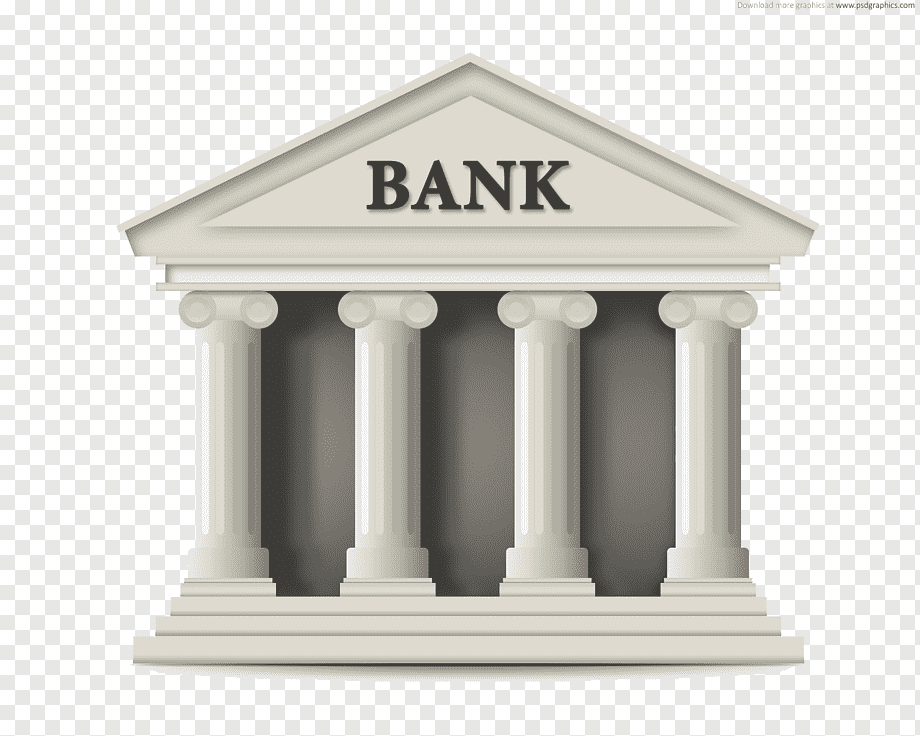
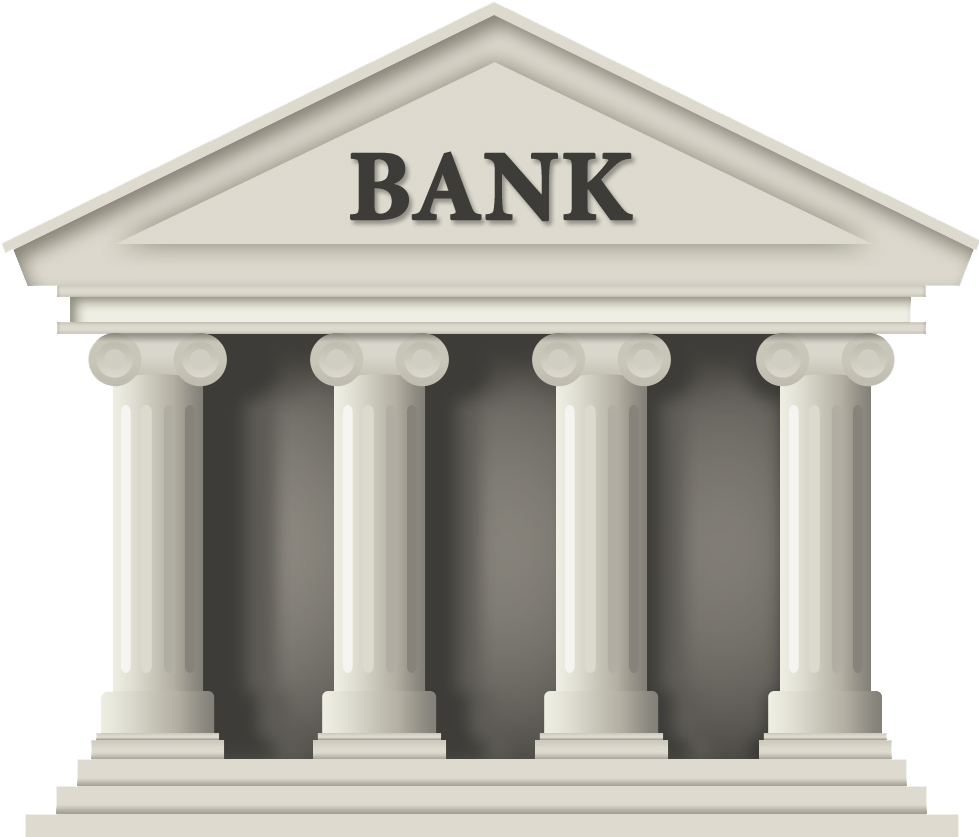
Переделал интерфейс

diff --git a/styles/menu.css b/styles/menu.css
@@ -32,49 +32,44 @@
 	text-decoration: none;
 }
 .nav-scroller__item:hover:not(.active) {
-	color: #ffe263;
+	color: #28e637;
 }  
 .nav-scroller__item.active {
-	border-bottom: 2px solid #ffe263;
+	border-bottom: 2px solid #28e637;
 }
 
 
 .upgrade-menu {
 	max-height: 94%;
-	height: auto;
 	padding-left: 10px;
 	padding-right: 10px;
 	overflow-y: scroll;
-	background-color: #2b2b2b;
-	border-radius: 20px;
 }
-/*.upgrade-menu::after {
-	content: '';
-	width: 100%;
-	height: 100%;
-	position: absolute;
-	top: 0; left: 0;
-	border-radius: 20px;
-	pointer-events: none;
-	background: linear-gradient(to bottom, transparent 85%,  rgba(0,0,0,0.9) 100%);
-}*/
 .upgrade-menu::-webkit-scrollbar {
 	width: 0;
 }
 .upgrade {
+	width: inherit;
+	margin-bottom: 10px;
 	line-height: 0.5em;
+	border-radius: 20px;
+	background-color: #2b2b2b;
 }
-.upgrade:not(:last-child) {
-	border-bottom: 3px solid rgba(0, 0, 0, 0.233);
-}
-#name {
+.upgrade-name {
+	height: 15px;
+	padding-top: 15px;
 	font-size: 22px;
+	font-weight: 500;
 }
-#amount {
+.upgrade-amount {
+	height: 20px;
+	padding-top: 20px;
 	font-size: 14px;
+	font-weight: 100;
 }
-.purchase {
+.upgrade-purchase-buttons {
 	width: auto;
-	/*float: right;*/
+	padding-bottom: 10px;
+	float: right;
 }
 

diff --git a/index.html b/index.html
@@ -15,7 +15,7 @@
 			<div class="click-area">
 				<h1 id="balance"></h1>
 				<div> 
-					<img src="images/bank-transparent.png">
+					<img id="bank-image-transparent" src="images/bank-transparent.png">
 				</div>
 			</div>
 			<div class="menu">
@@ -29,13 +29,24 @@
 				</div>
 				<div class="upgrade-menu">
 					<div class="upgrade">
-						<div> 
-							<span id="name">Улучшение 1</span>
+						<div class="upgrade-name"> 
+							<span>Улучшение 1</span>
 						</div>
-						<div>
-							<span id="amount">У вас есть:</span>
+						<div class="upgrade-amount">
+							<span>У вас есть:</span>
 						</div>
-						<div class="purchase">
+						<div class="upgrade-purchase-buttons">
+							<button>Купить 1</button>
+						</div>
+					</div>
+					<div class="upgrade">
+						<div class="upgrade-name"> 
+							<span>Улучшение 1</span>
+						</div>
+						<div class="upgrade-amount">
+							<span>У вас есть:</span>
+						</div>
+						<div class="upgrade-purchase-buttons">
 							<button>Купить 1</button>
 						</div>
 					</div>

diff --git a/styles/click-area.css b/styles/click-area.css
@@ -1,4 +1,5 @@
 .click-area {
+    color: #28e637;
     height: 95vh;
     width: 60vw;
     margin-top: 10px;
@@ -6,4 +7,9 @@
     text-align: center;
     display: block;
     user-select: none;
+}
+#bank-image-transparent {
+    height: 300px;
+    width: 300px;
+    box-shadow: 1px 0px 37px 0px #111111;
 }
